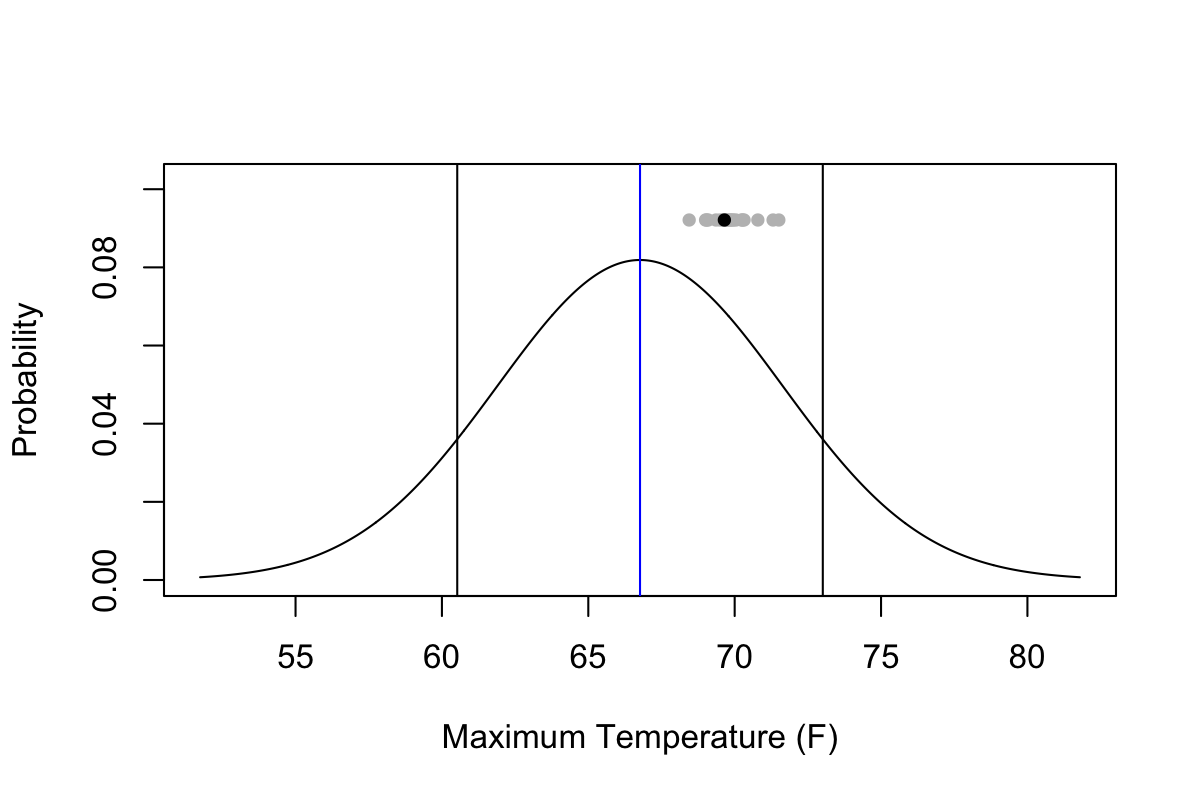
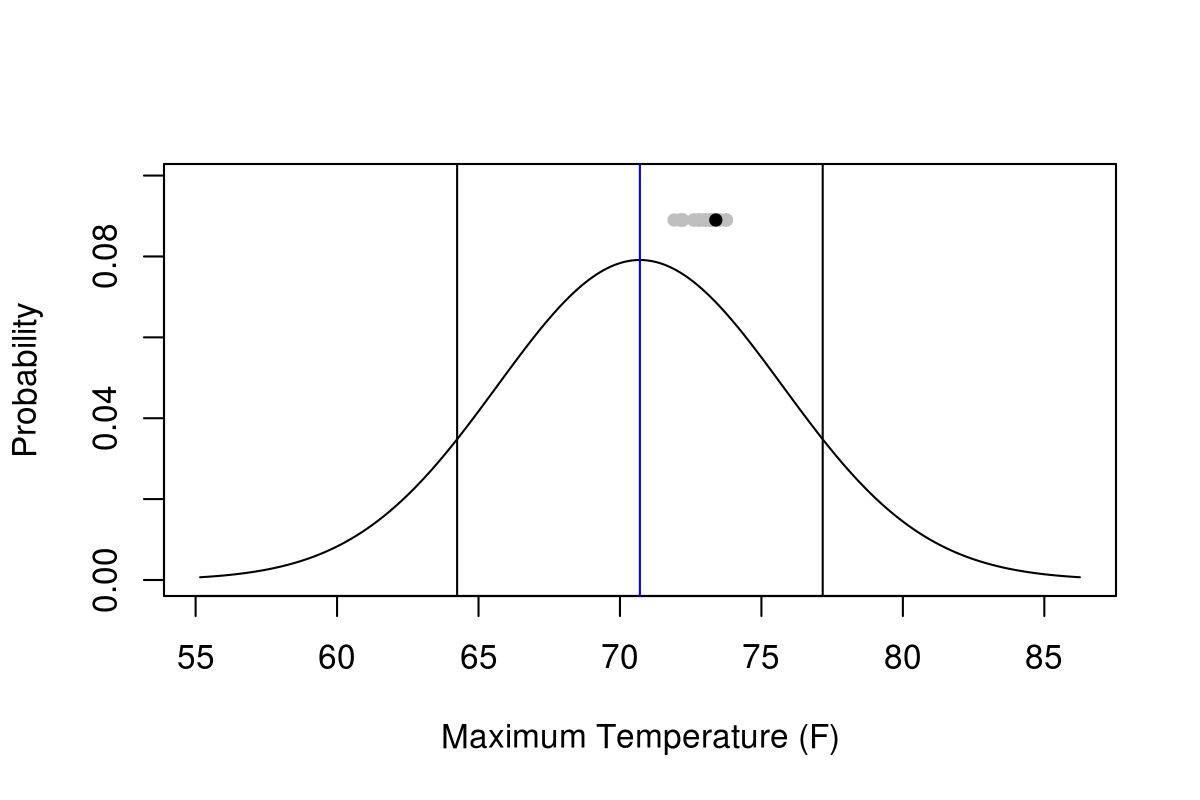
updated wxchallenge.md

diff --git a/wxchallenge.md b/wxchallenge.md
@@ -11,11 +11,11 @@ This page provides some tools I use to help me in the [WxChallenge](http://www.w
 * [SREF Plume Viewer](http://www.spc.noaa.gov/exper/sref/srefplumes/)
 * [WxChallenge WxData](http://www.wxchallenge.com/tools/weatherdata.php)
 
-## Calibrated PDFs for KGRI for Thursday, November 3
+## Calibrated PDFs for KGRI for Friday, November 4
 
 For information on Bayesian Model Averaging (BMA), scroll to the [bottom of this page](#bma). Click on each image to enlarge it.
 
-> Plots updated 2016-11-02 19:46 GMT
+> Plots updated 2016-11-03 17:30 GMT
 
 <p align="center"><strong>Maximum Temperature</strong></p>
 [<img src="tmax.png" width="700"/>](tmax.png)
